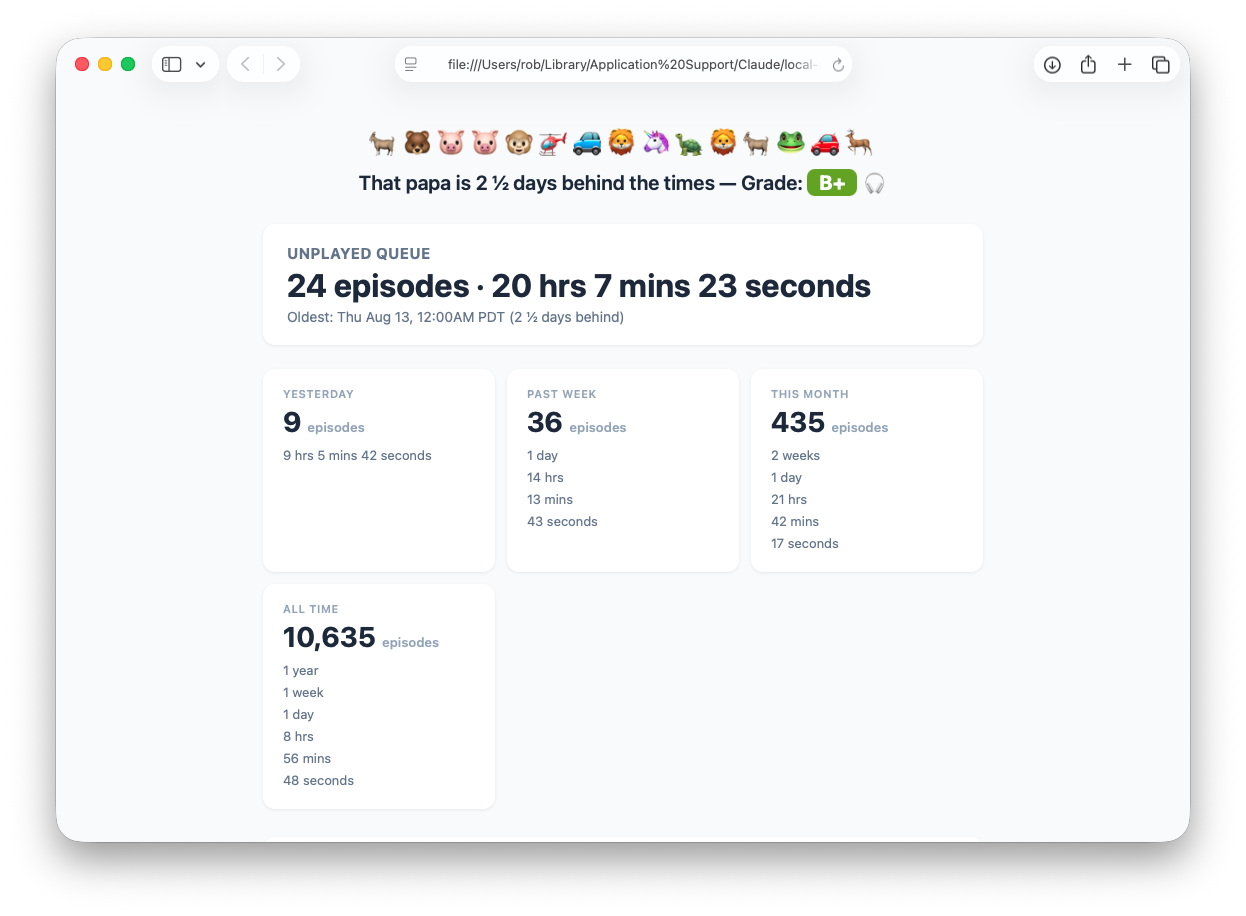
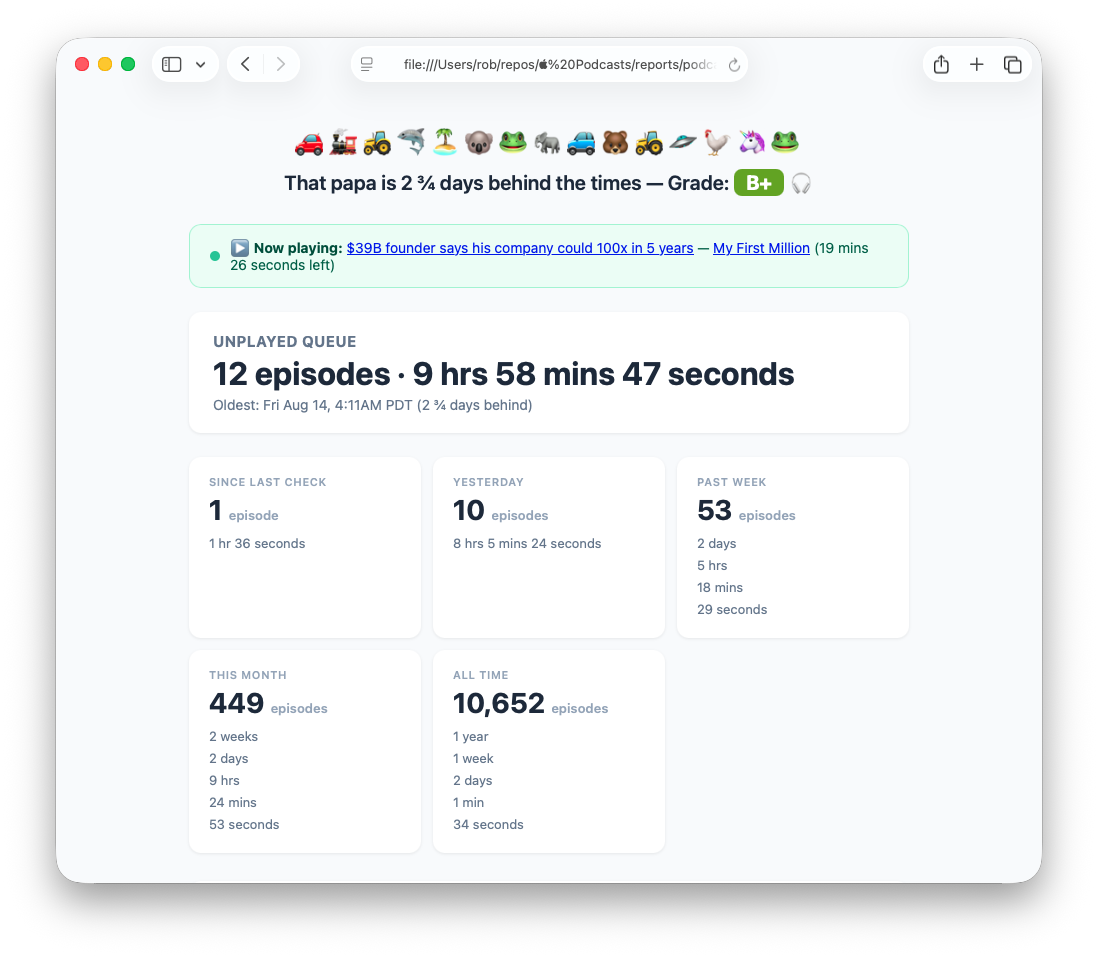
Fix NOW PLAYING badge in HTML report (#2)
* Fix HTML report badge to show NOW PLAYING instead of UP NEXT when playing

The queue table's row-0 badge was hardcoded to UP NEXT regardless of
whether that episode is the one actively playing, so a currently-playing
episode at the top of the queue was mislabeled. Now matches against
now_playing (by episode_url, falling back to title+podcast) and shows a
green NOW PLAYING badge when it's the one playing; UP NEXT only applies
otherwise.

* Update HTML report demo GIF to show the NOW PLAYING badge

* Update Apple Podcasts Latest Episodes screenshot in README assets

---------

diff --git a/reports/podcast_report.html b/reports/podcast_report.html
@@ -35,6 +35,7 @@
   .ep-pod a { color: #64748b; text-decoration: none; }
   .ep-pod a:hover { text-decoration: underline; }
   .up-next { display: inline-block; background: #dbeafe; color: #1d4ed8; font-size: 10px; font-weight: 700; letter-spacing: 0.5px; border-radius: 4px; padding: 1px 6px; margin-left: 6px; vertical-align: middle; }
+  .now-playing-badge { display: inline-block; background: #d1fae5; color: #047857; font-size: 10px; font-weight: 700; letter-spacing: 0.5px; border-radius: 4px; padding: 1px 6px; margin-left: 6px; vertical-align: middle; }
   .up-next-row { background: #f8fafc; }
   .ep-date, .ep-dur { color: #475569; white-space: nowrap; }
   .footer { text-align: center; color: #94a3b8; font-size: 12px; margin-top: 24px; }
@@ -42,10 +43,10 @@
 </head>
 <body>
 <div class="container">
-  <div class="emoji-strip">🐊🐨🦈🐘🐝🦖🐢🚁🦁🦩🚙🚘🐰🐘🐝</div>
+  <div class="emoji-strip">🚗🚂🚜🦈🏝🐨🐸🐘🚙🐻🚜🛸🐓🦄🐸</div>
   <div class="headline">That papa is 2 ¾ days behind the times &mdash; Grade: <span class="grade-badge">B+</span> 🎧</div>
 
-  <div class="now-playing"><span class="dot"></span><span class="text">&#9654;&#65039; <b>Now playing:</b> <a href="https://podcasts.apple.com/us/podcast/my-first-million/id1469759170?i=1000783301516" target="_blank">$39B founder says his company could 100x in 5 years</a> &mdash; <a href="https://podcasts.apple.com/us/podcast/my-first-million/id1469759170" target="_blank">My First Million</a> (36 mins 51 seconds left)</span></div>
+  <div class="now-playing"><span class="dot"></span><span class="text">&#9654;&#65039; <b>Now playing:</b> <a href="https://podcasts.apple.com/us/podcast/my-first-million/id1469759170?i=1000783301516" target="_blank">$39B founder says his company could 100x in 5 years</a> &mdash; <a href="https://podcasts.apple.com/us/podcast/my-first-million/id1469759170" target="_blank">My First Million</a> (19 mins 26 seconds left)</span></div>
 
   <div class="queue-summary">
     <h2>Unplayed Queue</h2>
@@ -101,7 +102,7 @@
     <tr><th>Episode</th><th>Published</th><th>Length</th></tr>
     
         <tr class="up-next-row">
-          <td class="ep-title"><a href="https://podcasts.apple.com/us/podcast/my-first-million/id1469759170?i=1000783301516" target="_blank">$39B founder says his company could 100x in 5 years</a> <span class="up-next">▶ UP NEXT</span><div class="ep-pod"><a href="https://podcasts.apple.com/us/podcast/my-first-million/id1469759170" target="_blank">My First Million</a></div></td>
+          <td class="ep-title"><a href="https://podcasts.apple.com/us/podcast/my-first-million/id1469759170?i=1000783301516" target="_blank">$39B founder says his company could 100x in 5 years</a> <span class="now-playing-badge">● NOW PLAYING</span><div class="ep-pod"><a href="https://podcasts.apple.com/us/podcast/my-first-million/id1469759170" target="_blank">My First Million</a></div></td>
           <td class="ep-date">Fri Aug 14</td>
           <td class="ep-dur">1 hr 36 seconds</td>
         </tr>
@@ -162,7 +163,7 @@
         </tr>
   </table>
 
-  <div class="footer">Generated Sun Aug 16, 11:40PM PDT</div>
+  <div class="footer">Generated Sun Aug 16, 11:58PM PDT</div>
 </div>
 </body>
 </html>

diff --git a/render_report.py b/render_report.py
@@ -207,10 +207,29 @@ def build_html(d):
         if key in p:
             played_cards += stat_card(label, p[key])
 
+    now_playing_data = d.get("now_playing")
+
+    def _is_now_playing(e):
+        # Prefer matching by episode_url (stable identity from the store
+        # link); title/podcast is only a fallback for episodes with no
+        # store link populated.
+        if not now_playing_data:
+            return False
+        if now_playing_data.get("episode_url") and e.get("episode_url"):
+            return now_playing_data["episode_url"] == e["episode_url"]
+        return (now_playing_data.get("title") == e.get("title")
+                and now_playing_data.get("podcast") == e.get("podcast"))
+
     rows = ""
     for i, e in enumerate(q["episodes"]):
         pub = datetime.datetime.fromisoformat(e["pubdate"]).replace(tzinfo=datetime.timezone.utc).astimezone(local_tz(d))
-        badge = ' <span class="up-next">▶ UP NEXT</span>' if i == 0 else ""
+        is_playing = _is_now_playing(e)
+        if is_playing:
+            badge = ' <span class="now-playing-badge">● NOW PLAYING</span>'
+        elif i == 0:
+            badge = ' <span class="up-next">▶ UP NEXT</span>'
+        else:
+            badge = ""
         title_html = html.escape(e["title"])
         if e.get("episode_url"):
             title_html = f'<a href="{html.escape(e["episode_url"])}" target="_blank">{title_html}</a>'
@@ -218,7 +237,7 @@ def build_html(d):
         if e.get("podcast_url"):
             pod_html = f'<a href="{html.escape(e["podcast_url"])}" target="_blank">{pod_html}</a>'
         rows += f'''
-        <tr class="{"up-next-row" if i == 0 else ""}">
+        <tr class="{"up-next-row" if (i == 0 or is_playing) else ""}">
           <td class="ep-title">{title_html}{badge}<div class="ep-pod">{pod_html}</div></td>
           <td class="ep-date">{pub.strftime("%a %b %-d")}</td>
           <td class="ep-dur">{e["duration_fmt"]}</td>
@@ -286,6 +305,7 @@ def build_html(d):
   .ep-pod a {{ color: #64748b; text-decoration: none; }}
   .ep-pod a:hover {{ text-decoration: underline; }}
   .up-next {{ display: inline-block; background: #dbeafe; color: #1d4ed8; font-size: 10px; font-weight: 700; letter-spacing: 0.5px; border-radius: 4px; padding: 1px 6px; margin-left: 6px; vertical-align: middle; }}
+  .now-playing-badge {{ display: inline-block; background: #d1fae5; color: #047857; font-size: 10px; font-weight: 700; letter-spacing: 0.5px; border-radius: 4px; padding: 1px 6px; margin-left: 6px; vertical-align: middle; }}
   .up-next-row {{ background: #f8fafc; }}
   .ep-date, .ep-dur {{ color: #475569; white-space: nowrap; }}
   .footer {{ text-align: center; color: #94a3b8; font-size: 12px; margin-top: 24px; }}
